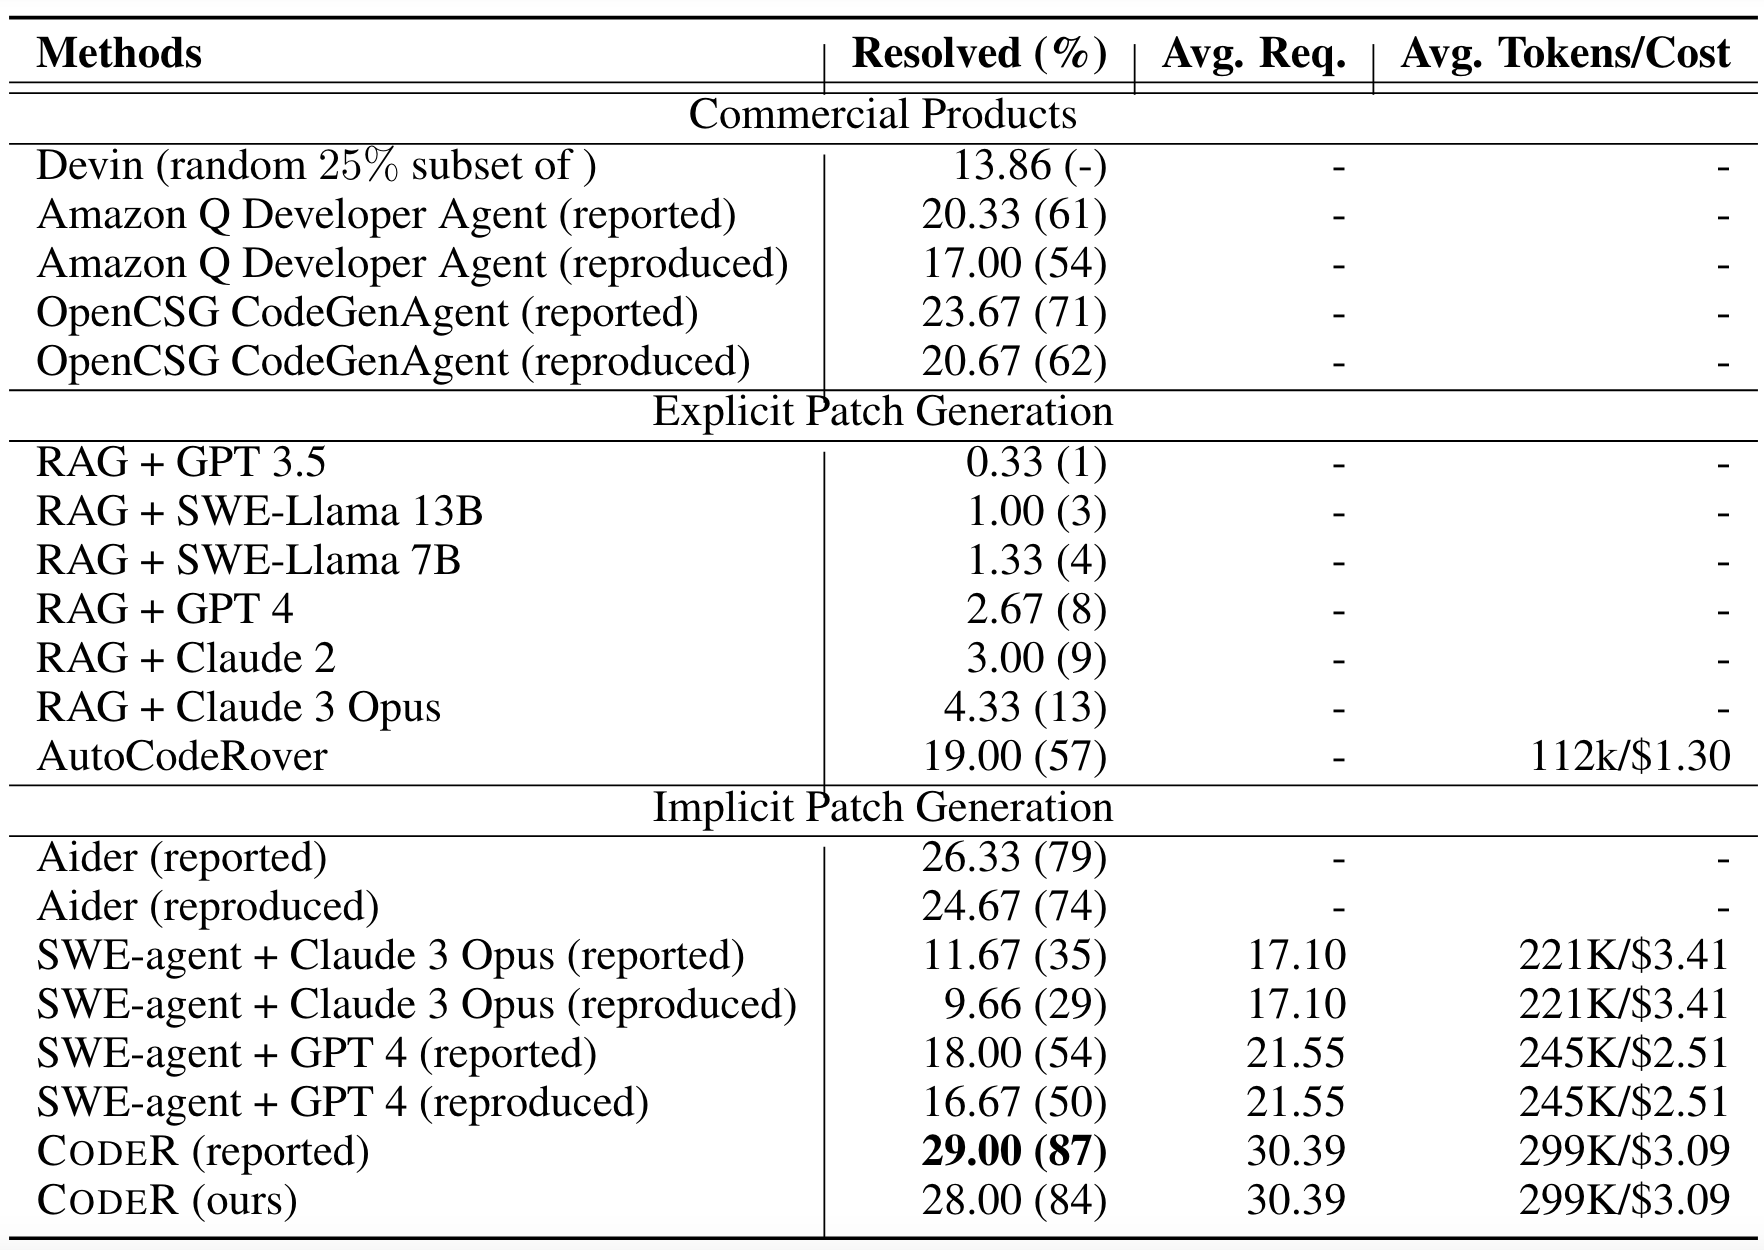
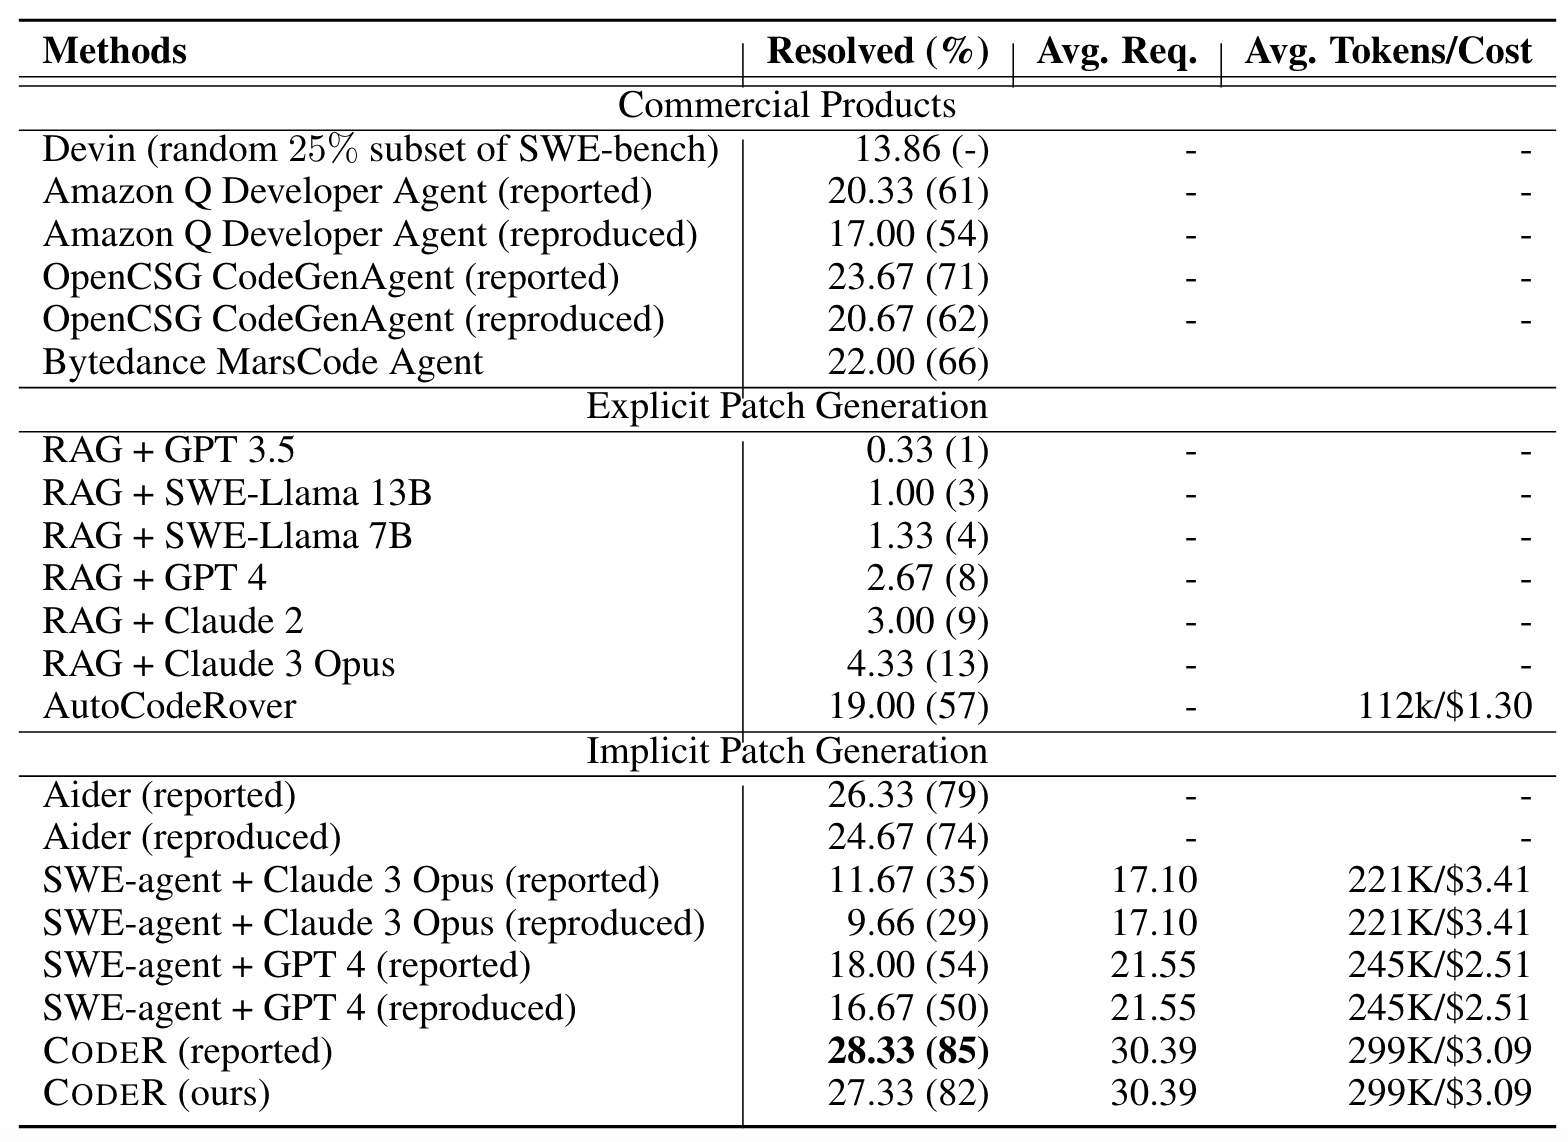
Update README.md

Changed region(s): [[0.0, 0.0, 1.0, 1.0], [0.75, 0.6743, 0.7812, 0.7049]]

diff --git a/README.md b/README.md
@@ -5,10 +5,10 @@
 </p>
 
 ## 📰 News
-* **[Jun. 4, 2024]**: 🎉 We release CodeR, which can solve $29$% of issues on [SWE-bench lite](https://www.swebench.com) in the case of submitting only once per issue, Read more in our [paper](https://arxiv.org/pdf/2406.01304).
+* **[Jun. 4, 2024]**: 🎉 We release CodeR, which can solve $28.33$% of issues on [SWE-bench lite](https://www.swebench.com) in the case of submitting only once per issue, Read more in our [paper](https://arxiv.org/pdf/2406.01304).
 
 ## 🌏 Abstract
-GitHub issue resolving recently has attracted significant attention from academia and industry. SWE-bench is proposed to measure the performance in resolving issues. In this paper, we propose CodeR, which adopts a multi-agent framework and pre-defined task graphs to Repair & Resolve reported bugs and add new features within code Repository. On SWE-bench lite, CodeR is able to solve $29.00$% of issues, in the case of submitting only once for each issue. We examine the performance impact of each design of CodeR and offer insights to advance this research direction.
+GitHub issue resolving recently has attracted significant attention from academia and industry. SWE-bench is proposed to measure the performance in resolving issues. In this paper, we propose CodeR, which adopts a multi-agent framework and pre-defined task graphs to Repair & Resolve reported bugs and add new features within code Repository. On SWE-bench lite, CodeR is able to solve $28.33$% of issues, in the case of submitting only once for each issue. We examine the performance impact of each design of CodeR and offer insights to advance this research direction.
 
 ![CodeR](figs/multi-agent-framework.png)
 
